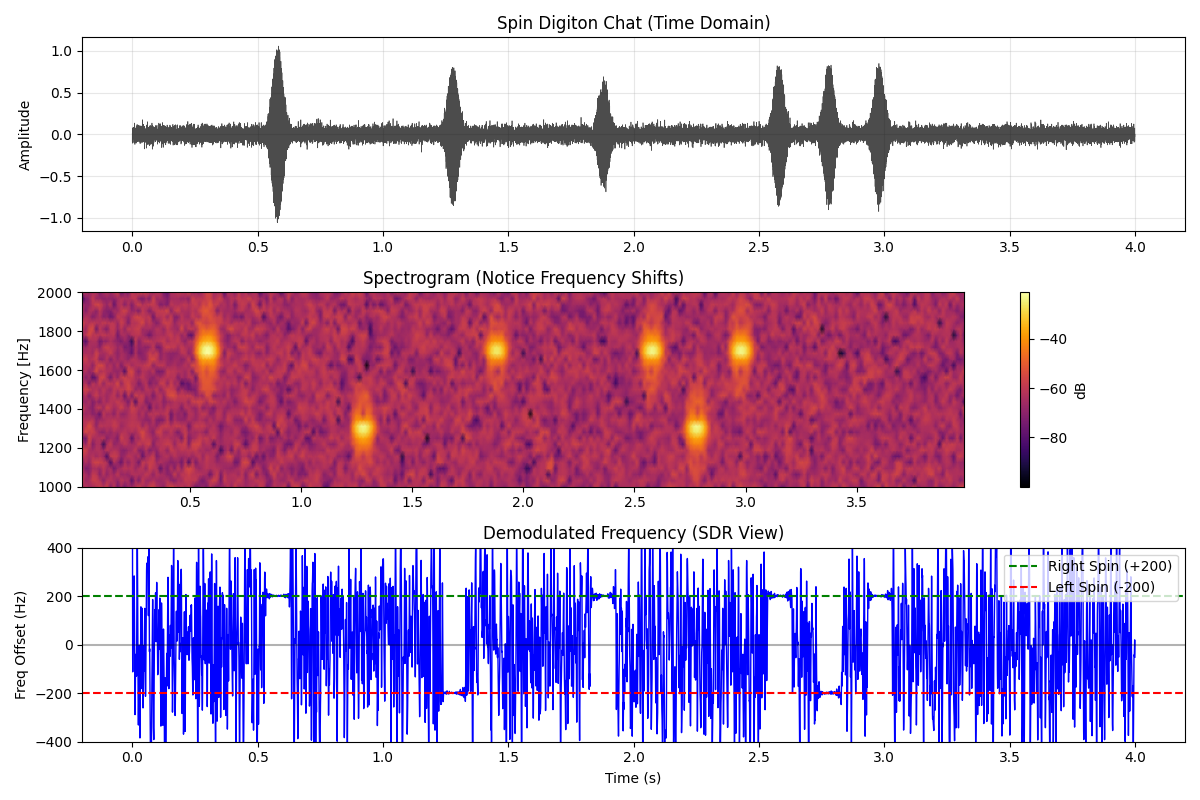
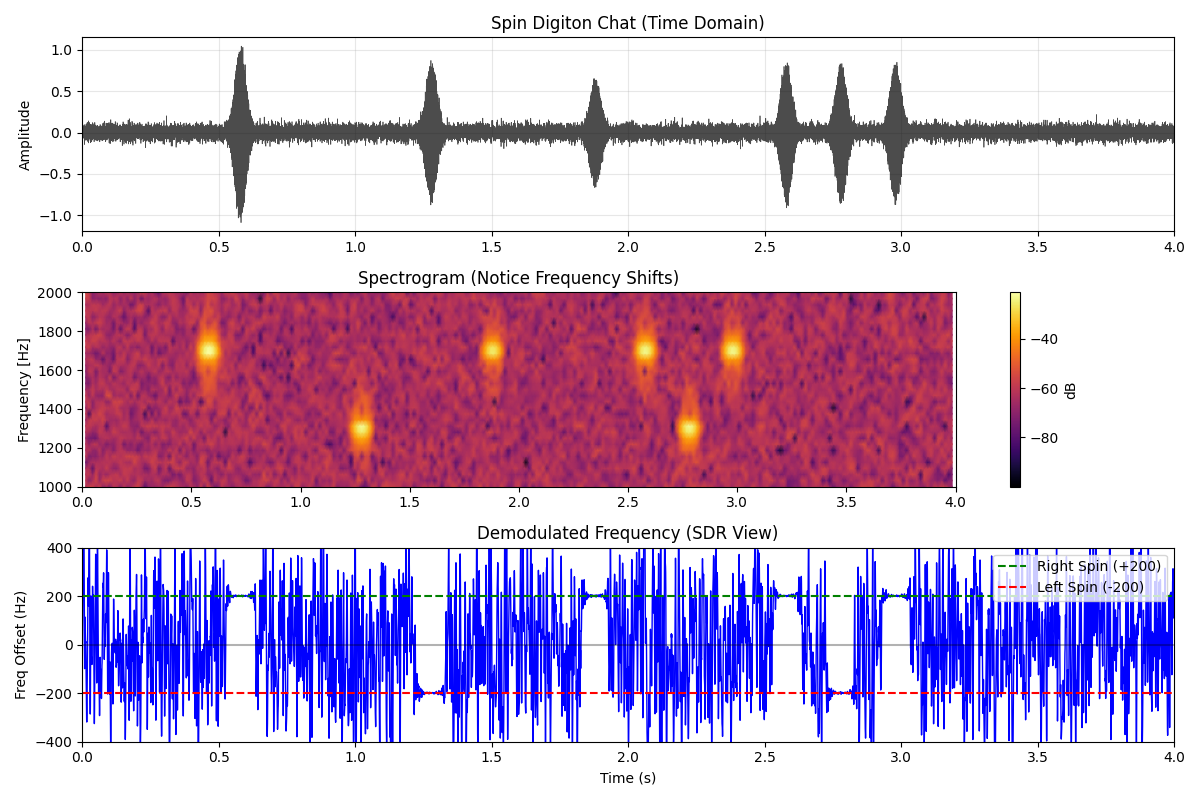
Fix time axis alignment across all subplots in spectrograms

diff --git a/spin_digiton_modem.py b/spin_digiton_modem.py
@@ -151,6 +151,7 @@ def simulate_spin_chat():
     plt.plot(t, rx_signal, 'k', alpha=0.7, linewidth=0.5)
     plt.title("Spin Digiton Chat (Time Domain)")
     plt.ylabel("Amplitude")
+    plt.xlim(0, duration)
     plt.grid(True, alpha=0.3)
     
     # 2. Spectrogram
@@ -158,6 +159,7 @@ def simulate_spin_chat():
     f, t_spec, Sxx = signal.spectrogram(rx_signal, SAMPLE_RATE, nperseg=256, noverlap=128)
     plt.pcolormesh(t_spec, f, 10 * np.log10(Sxx + 1e-10), shading='gouraud', cmap='inferno')
     plt.ylabel('Frequency [Hz]')
+    plt.xlim(0, duration)
     plt.ylim(1000, 2000) # Zoom in on 1500Hz +/- 500
     plt.title("Spectrogram (Notice Frequency Shifts)")
     plt.colorbar(label='dB')
@@ -177,6 +179,7 @@ def simulate_spin_chat():
     plt.axhline(SPIN_OFFSET, color='g', linestyle='--', label='Right Spin (+200)')
     plt.axhline(-SPIN_OFFSET, color='r', linestyle='--', label='Left Spin (-200)')
     plt.axhline(0, color='k', alpha=0.3)
+    plt.xlim(0, duration)
     plt.ylim(-400, 400)
     plt.ylabel("Freq Offset (Hz)")
     plt.xlabel("Time (s)")

diff --git a/digiton_party_mix.py b/digiton_party_mix.py
@@ -132,6 +132,7 @@ def simulate_party_mix():
     plt.plot(t, sig_noisy, 'k', linewidth=0.5, alpha=0.7)
     plt.title("Party Mix: Weak/Slow Alice vs Strong/Fast Bob")
     plt.ylabel("Amplitude")
+    plt.xlim(0, total_time)
     plt.grid(True, alpha=0.3)
     
     # Draw Slot Boundaries
@@ -142,6 +143,8 @@ def simulate_party_mix():
     f, t_spec, Sxx = signal.spectrogram(sig_noisy, SAMPLE_RATE, nperseg=256, noverlap=128)
     plt.pcolormesh(t_spec, f, 10 * np.log10(Sxx + 1e-10), shading='gouraud', cmap='inferno')
     plt.ylabel('Frequency [Hz]')
+    plt.xlabel('Time (s)')
+    plt.xlim(0, total_time)
     plt.ylim(1000, 2000)
     plt.title("Spectrogram (Notice Alice's Faint Pulses vs Bob's Bright Bursts)")
     plt.colorbar(label='dB')

diff --git a/digiton_adaptive_speed.py b/digiton_adaptive_speed.py
@@ -119,6 +119,7 @@ def simulate_adaptive_speed():
     plt.plot(t, noisy_signal, 'k', linewidth=0.5, alpha=0.7)
     plt.title("Adaptive Speed Spin Digiton (Time Domain)")
     plt.ylabel("Amplitude")
+    plt.xlim(0, cycle_duration)
     plt.grid(True, alpha=0.3)
     
     # Draw Slot Boundaries
@@ -129,6 +130,8 @@ def simulate_adaptive_speed():
     f, t_spec, Sxx = signal.spectrogram(noisy_signal, SAMPLE_RATE, nperseg=128, noverlap=64)
     plt.pcolormesh(t_spec, f, 10 * np.log10(Sxx + 1e-10), shading='gouraud', cmap='inferno')
     plt.ylabel('Frequency [Hz]')
+    plt.xlabel('Time (s)')
+    plt.xlim(0, cycle_duration)
     plt.ylim(1000, 2000)
     plt.title("Spectrogram (Notice High Speed Data Bursts)")
     plt.colorbar(label='dB')

diff --git a/digiton_chat.py b/digiton_chat.py
@@ -103,6 +103,7 @@ def simulate_chat_sequence():
     plt.plot(t, signal_arr, 'k', linewidth=0.5)
     plt.title("Spin Digiton Chat Sequence (Time Domain)")
     plt.ylabel("Amplitude")
+    plt.xlim(0, total_time)
     plt.grid(True, alpha=0.3)
     
     # Draw Slot Boundaries
@@ -113,6 +114,8 @@ def simulate_chat_sequence():
     f, t_spec, Sxx = signal.spectrogram(signal_arr, SAMPLE_RATE, nperseg=256, noverlap=128)
     plt.pcolormesh(t_spec, f, 10 * np.log10(Sxx + 1e-10), shading='gouraud', cmap='inferno')
     plt.ylabel('Frequency [Hz]')
+    plt.xlabel('Time (s)')
+    plt.xlim(0, total_time)
     plt.ylim(1000, 2000)
     plt.title("Spectrogram (Showing Spin/Frequency Shifts)")
     plt.colorbar(label='dB')
